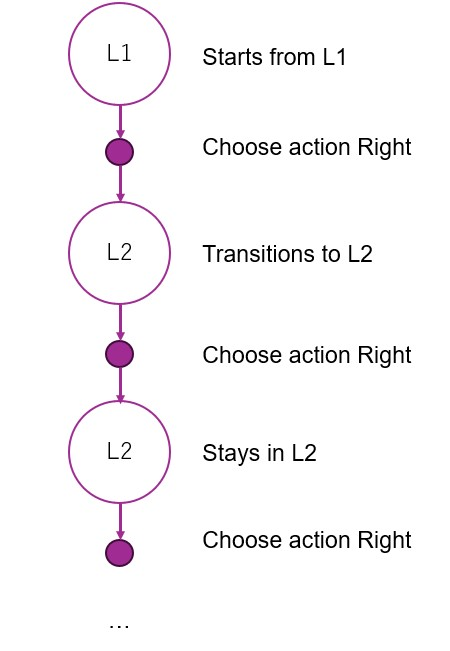
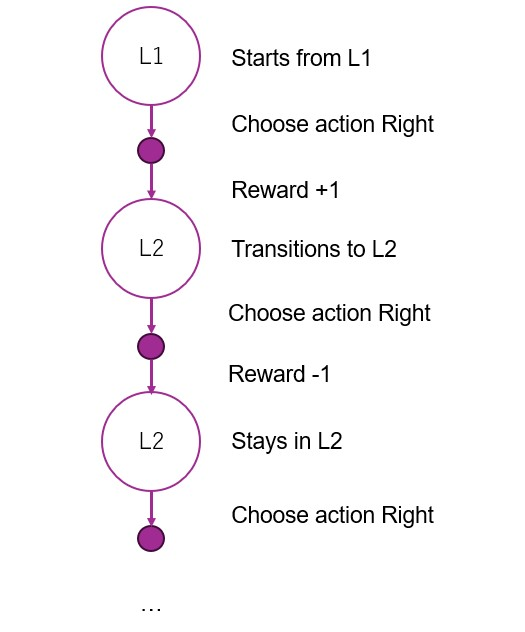
reinforcement learning

diff --git a/docs/day1_mdp.md b/docs/day1_mdp.md
@@ -92,3 +92,7 @@ What kind of *policies* can you think of for the agent? E.g. the agent always mo
 Below is the **bakup diagram** for that policy
 
 ![move to the right](backup_diagram_move_to_right_always.jpg)
+
+Below is another example of back up diagram where agent chooses actions Right and Left with 50% probability
+
+![random walk](backup_diagram_random_walk.jpg)
